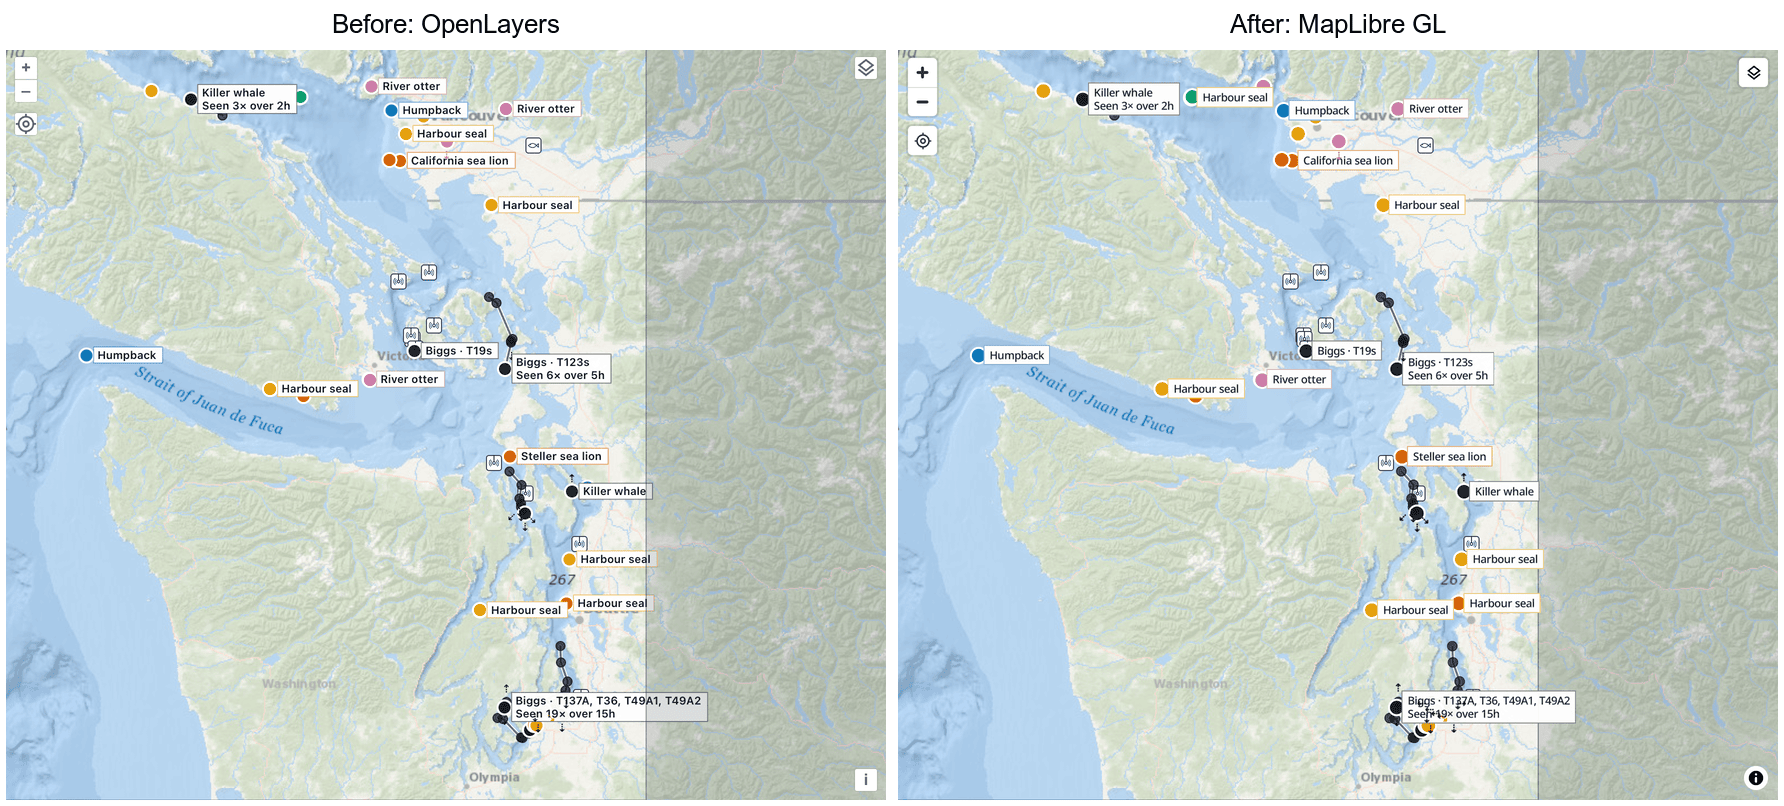
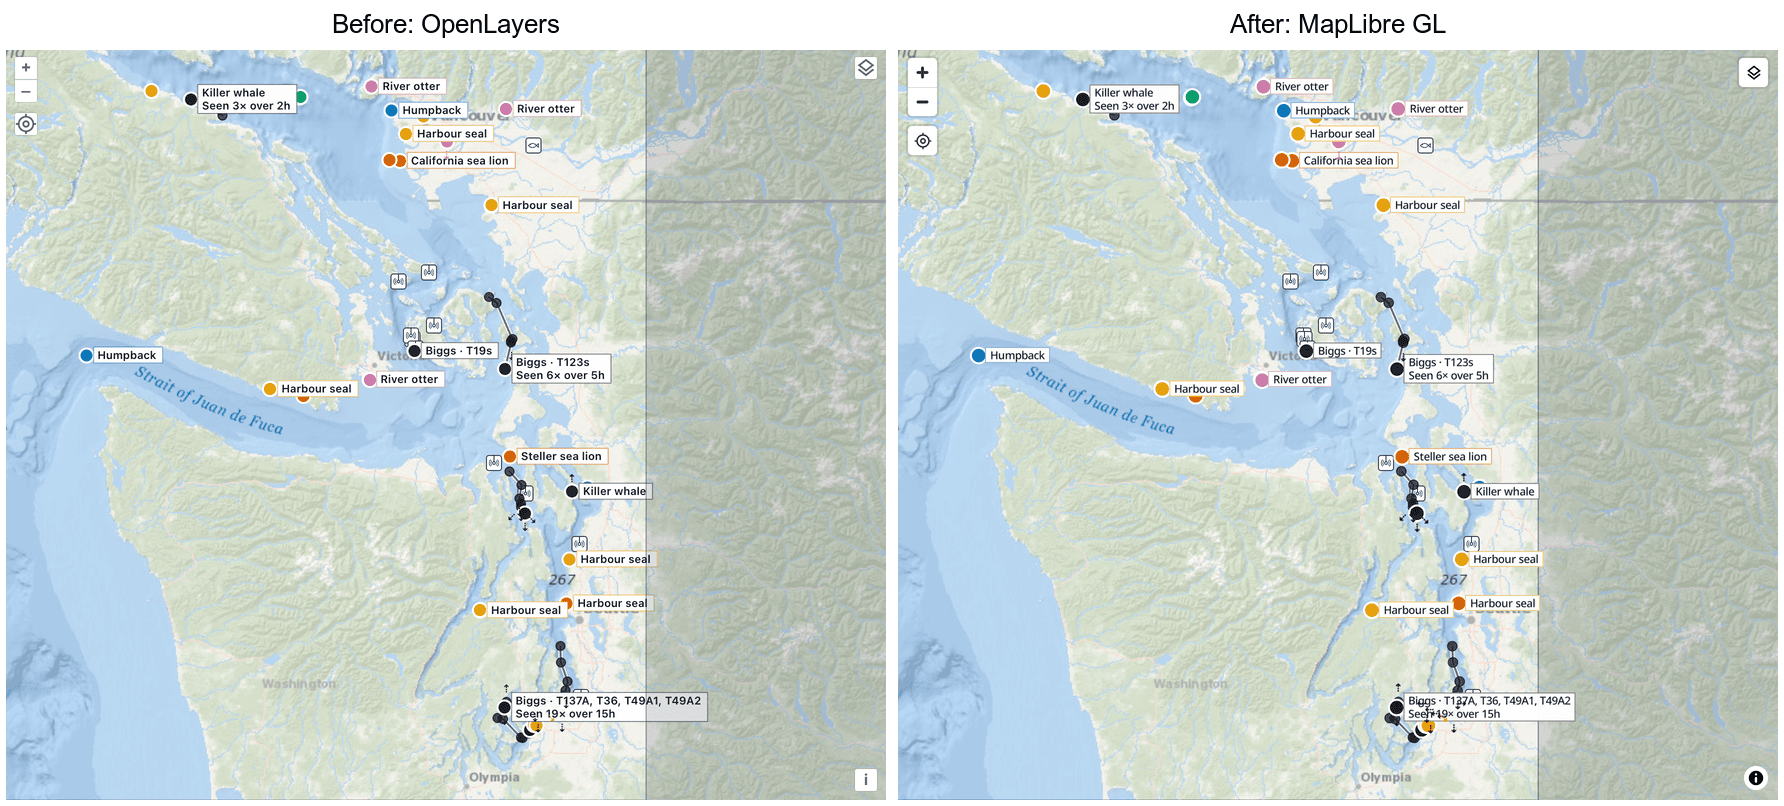
Labels sit beside their dots, where OpenLayers put them, not over the dot's ring
The box MapLibre fits to a label's text was 2px wider on each side than its
padding, and MapLibre starts a line a little further left, so the box ran into
the white ring of a segment head. Measured against production at three times
density and matched.

diff --git a/src/style.ts b/src/style.ts
@@ -133,7 +133,10 @@ function occurrenceLayers(source: string, prefix: string, filter?: ExpressionSpe
         'text-size': 11,
         'text-anchor': 'left',
         'text-justify': 'left',
-        'text-offset': [1, 0],
+        // 11.6px: where OpenLayers' `offsetX: 11` put the text, measured. MapLibre
+        // starts a line slightly further left, and any less and the label's box
+        // runs into the white ring of a segment head's dot.
+        'text-offset': [11.6 / 11, 0],
         // OpenLayers broke lines only at \n; MapLibre wraps at 10 ems unless told.
         'text-max-width': 60,
         // Near-opaque. At 88% a marker underneath showed through as a pale
@@ -141,7 +144,9 @@ function occurrenceLayers(source: string, prefix: string, filter?: ExpressionSpe
         // neighbour should look like a label.
         'icon-image': ['concat', 'label-', ['get', 'color']],
         'icon-text-fit': 'both',
-        'icon-text-fit-padding': [2, 4, 1, 4],
+        // A pixel less above and below than OpenLayers' [2, 4, 1, 4]: MapLibre's
+        // line box is taller, and this makes the box the same height.
+        'icon-text-fit-padding': [1, 4, 0, 4],
       },
       paint: {'text-color': '#111827'},
     },
@@ -423,7 +428,9 @@ function box(fill: string, stroke?: string) {
     pixelRatio: pixelRatio(),
     stretchX: [[s(2), s(14)]] as [number, number][],
     stretchY: [[s(2), s(14)]] as [number, number][],
-    content: [s(2), s(2), s(14), s(14)] as [number, number, number, number],
+    // The text area starts just inside the 1px border, so the padding the
+    // layers ask for is all the room the text gets, as OpenLayers' padding was.
+    content: [s(1), s(1), s(15), s(15)] as [number, number, number, number],
   }] as const;
 }
 
